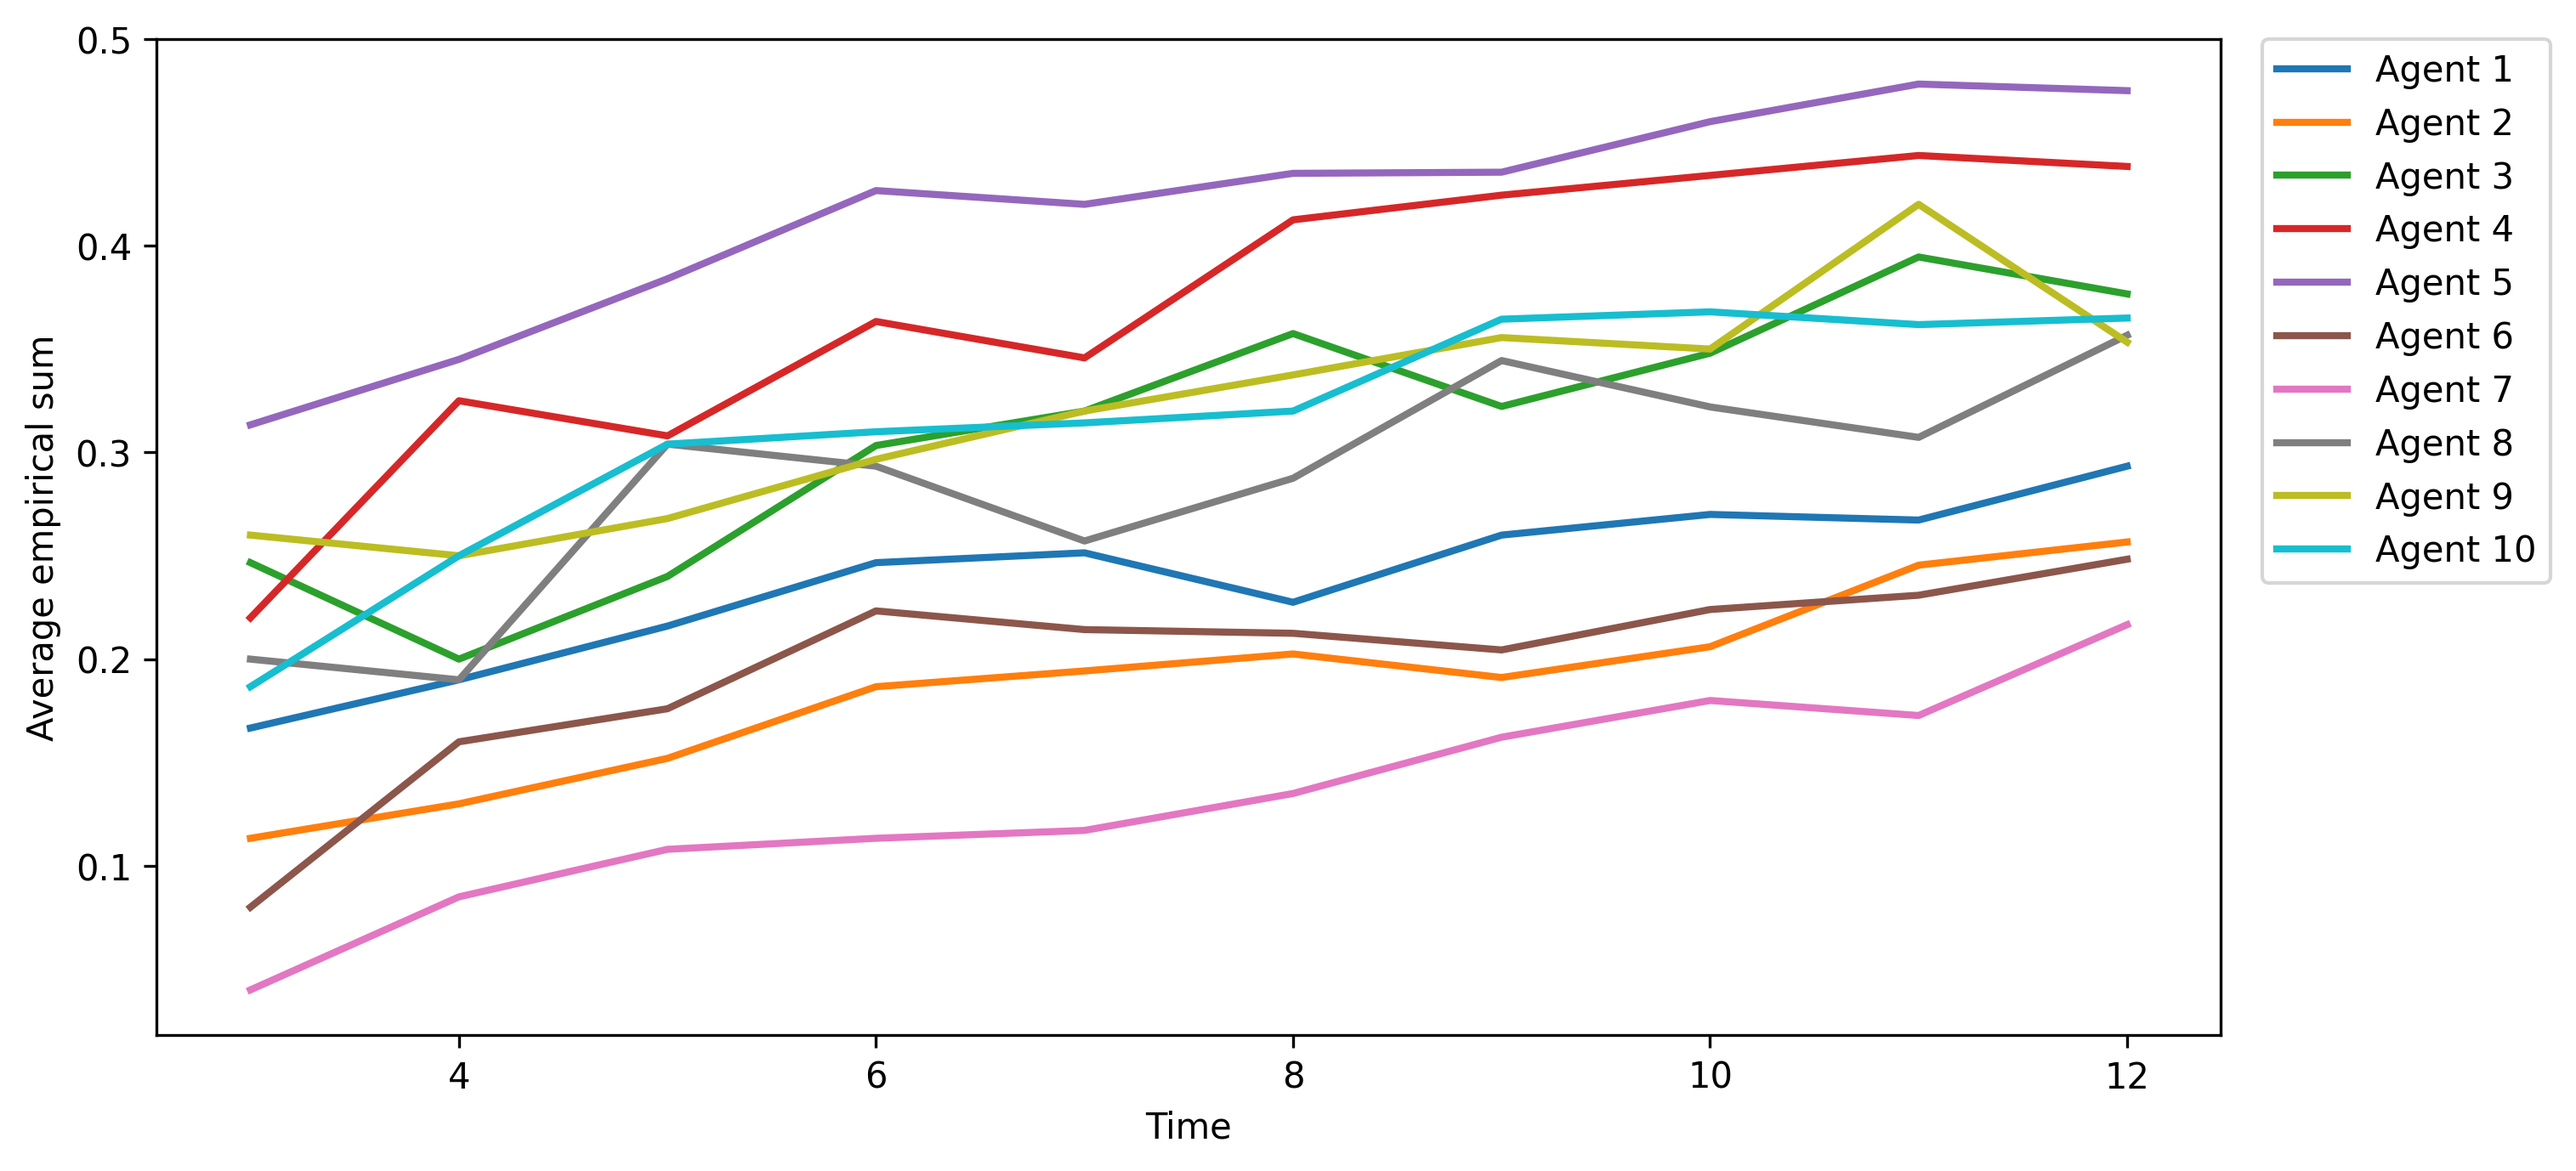
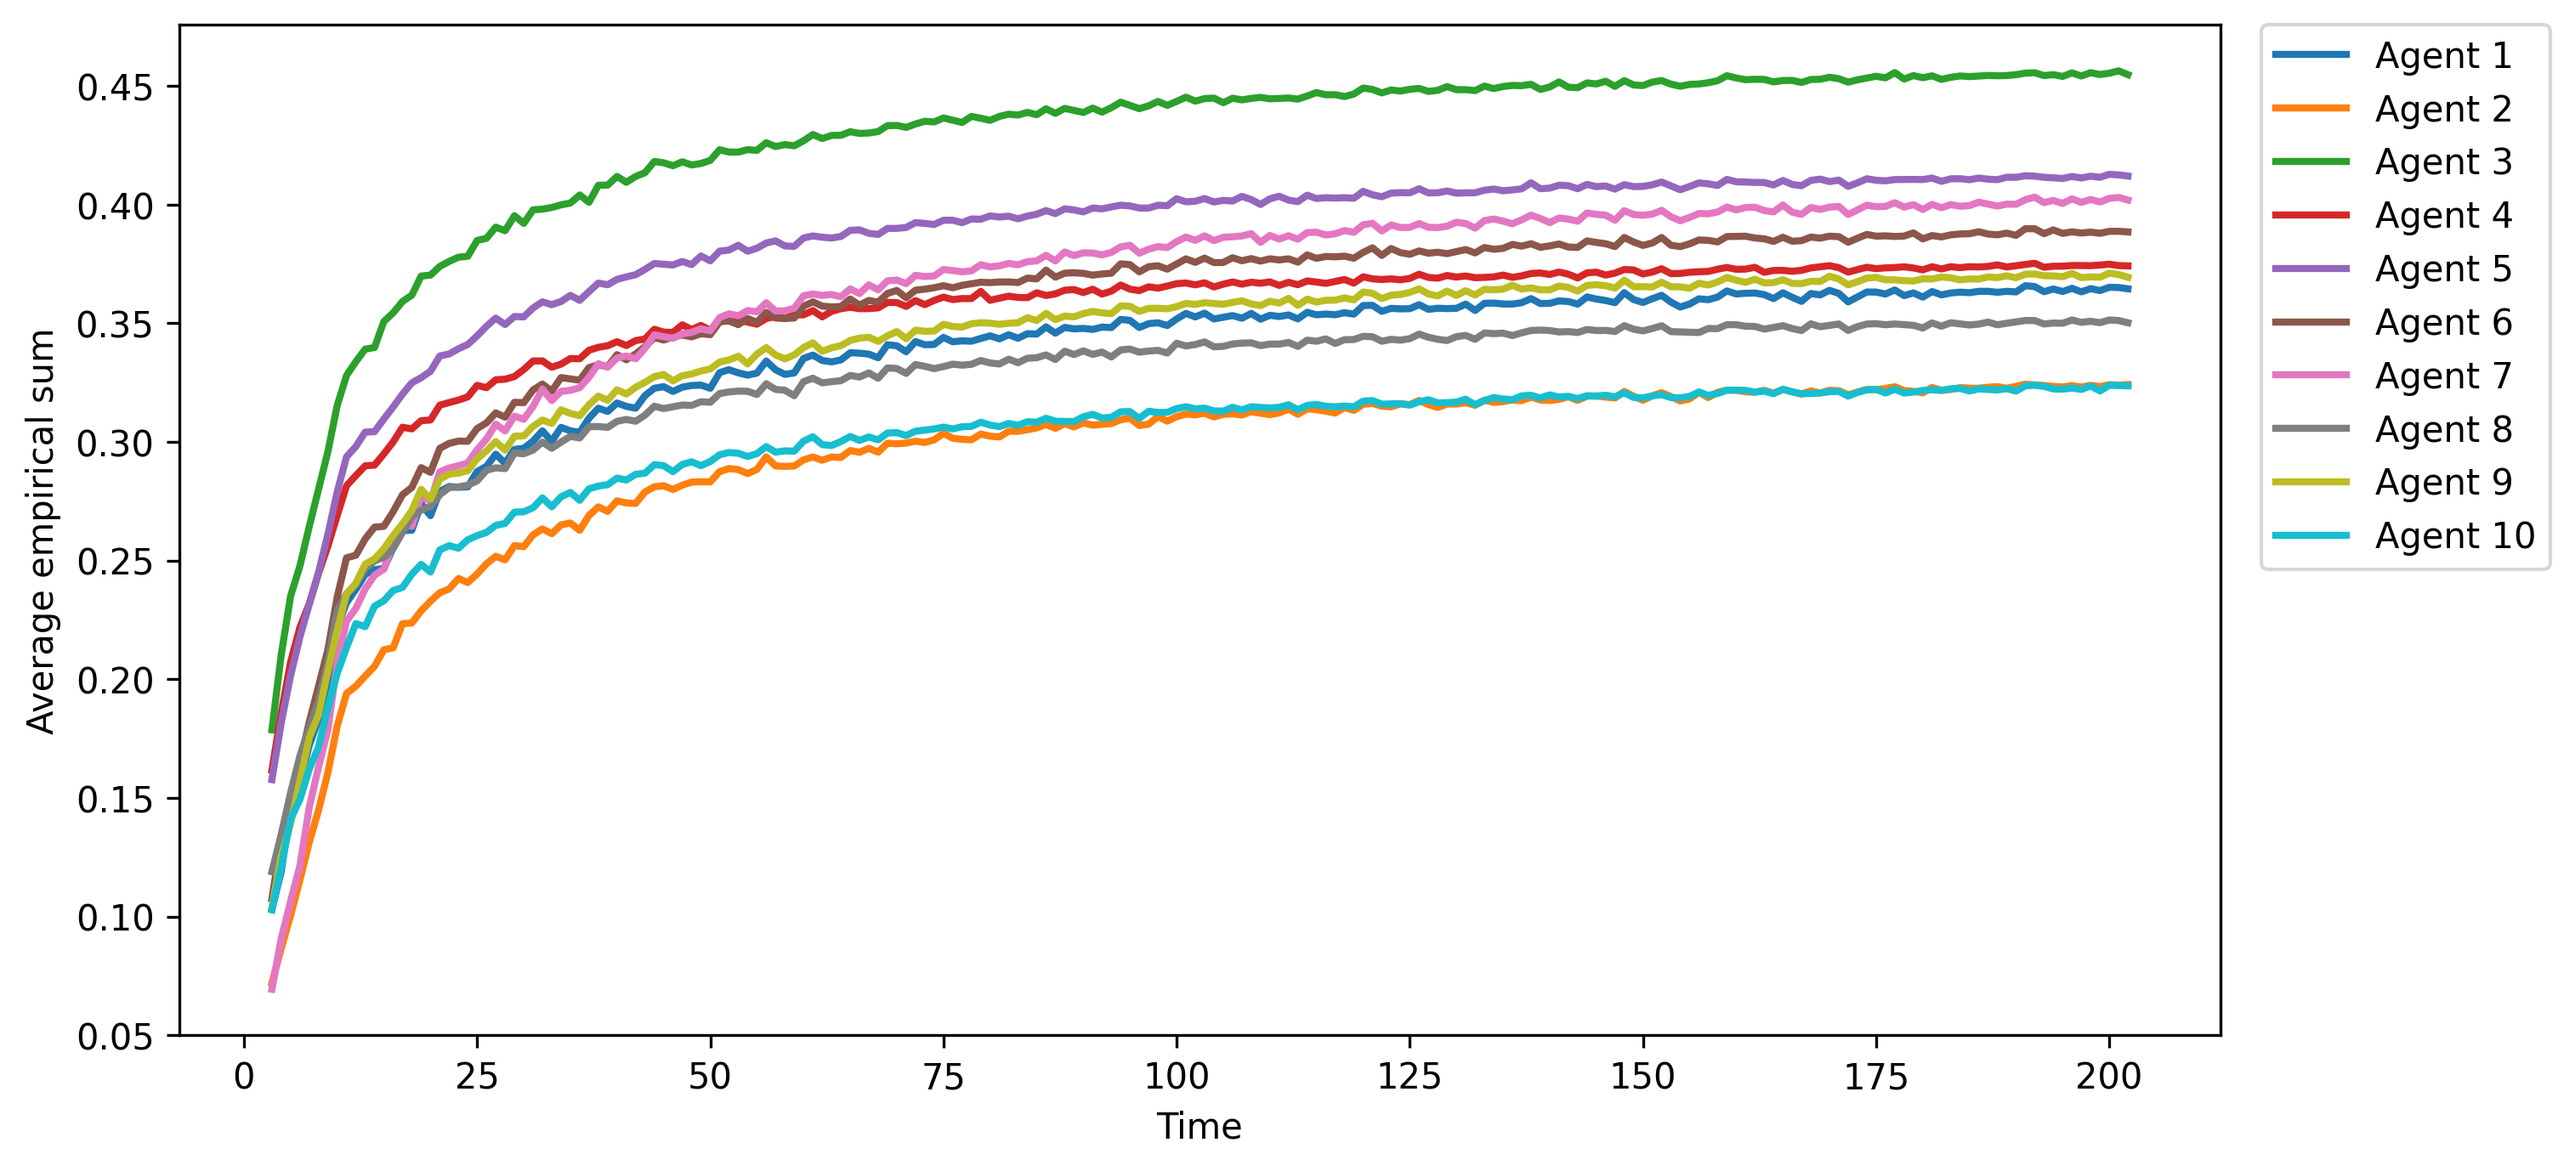
simulation for N=10,M=5

diff --git a/src/simulations/non_homo_empirical.py b/src/simulations/non_homo_empirical.py
@@ -1,4 +1,5 @@
 from src.models.od_model import *
+from src.plotting.network_plot import *
 
 # ==================================================
 # Parameters
@@ -6,9 +7,9 @@ from src.models.od_model import *
 
 N = 10
 L = 10
-M = 5
+M = 2
 T = 10
-Time = 100
+Time = 200
 
 # ==================================================
 # Generate model ingredients
@@ -21,18 +22,37 @@ G, A = generate_network(
     p=0.5,
     seed=42
 )
+np.save(
+    "data/c1_N10_M5.npy",
+    c1
+)
+
+np.save(
+    "data/c2_N10_M5.npy",
+    c2
+)
 
 memory_sets = generate_memory_sets(
     N=N,
     L=L,
     M=M
 )
+# save the weighted adjacency matrix 
+np.save(
+    "data/A_N10_M5.npy",
+    A
+)
 
 # ==================================================
-# Monte Carlo experiment
+# Draw network
+# ==================================================
+draw_network(G, save_path="figures/network_N10_M5.png")
+
+# ==================================================
+# Simulate empirical sums for all agents
 # ==================================================
 
-all_means = []
+all_means = np.zeros((Time,N))
 
 rng = np.random.default_rng(42)
 
@@ -40,7 +60,7 @@ for horizon in range(3, Time + 3):
 
     monte_carlo_vals = []
 
-    for sim in range(500):
+    for sim in range(5000):
 
         X_history, Z_history = simulate_trajectory(
             N=N,
@@ -57,24 +77,49 @@ for horizon in range(3, Time + 3):
         ergodic_vals = np.mean(Z_history, axis=0)
 
         monte_carlo_vals.append(
-            np.mean(ergodic_vals)
+            ergodic_vals
         )
 
-    all_means.append(
-        np.mean(monte_carlo_vals)
-    )
+    all_means[horizon - 3] = np.mean(
+    monte_carlo_vals,
+    axis=0
+)
+#save the empirical sum data
+np.save(
+    "data/all_means_N10_M5.npy",all_means
+)
 
 # ==================================================
-# Plot
+# Plotting
 # ==================================================
 
 time = np.arange(3, Time + 3)
 
 plt.figure(figsize=(10, 4.5))
 
-plt.plot(time, all_means)
+for node in range(N):
+
+    plt.plot(
+        time,
+        all_means[:, node],
+        linewidth=2,
+        label=f"Agent {node+1}"
+    )
+
+plt.legend(
+    bbox_to_anchor=(1.02, 1),
+    loc="upper left",
+    borderaxespad=0.
+)
+plt.tight_layout()
 
 plt.xlabel("Time")
-plt.ylabel("Empirical ergodic average")
+plt.ylabel("Average empirical sum")
+
+plt.savefig(
+    "figures/all_means_N10_M5.png",
+    dpi=300,
+    bbox_inches="tight"
+)
 
 plt.show()

diff --git a/src/simulations/run_simulation.py b/src/simulations/run_simulation.py
@@ -7,47 +7,26 @@ from src.plotting.network_plot import *
 
 N = 10
 L = 10
-M = 5
+M = 2
 T = 10
-Time = 10
+Time = 200
 
 # ==================================================
 # Generate model ingredients
 # ==================================================
 
-c1, c2 = generate_c1_c2(N, M)
-
-G, A = generate_network(
-    N=N,
-    p=0.5,
-    seed=42
-)
-np.save(
-    "data/c1_N10_M5.npy",
-    c1
-)
-
-np.save(
-    "data/c2_N10_M5.npy",
-    c2
-)
-
+c1 = np.load("data/c1_N10_M5.npy")
+c2 = np.load("data/c2_N10_M5.npy")
 memory_sets = generate_memory_sets(
     N=N,
     L=L,
     M=M
 )
-# save the weighted adjacency matrix 
-np.save(
-    "data/A_N10_M5.npy",
-    A
-)
 
 # ==================================================
 # Draw network
 # ==================================================
-draw_network(G, save_path="figures/network_N10_M5.png")
-
+A = np.load("data/A_N10_M5.npy")
 # ==================================================
 # Simulate empirical sums for all agents
 # ==================================================
@@ -60,7 +39,7 @@ for horizon in range(3, Time + 3):
 
     monte_carlo_vals = []
 
-    for sim in range(50):
+    for sim in range(5000):
 
         X_history, Z_history = simulate_trajectory(
             N=N,
@@ -86,7 +65,7 @@ for horizon in range(3, Time + 3):
 )
 #save the empirical sum data
 np.save(
-    "data/all_means_N10_M5.npy",all_means
+    "data/all_means_N10_M2.npy",all_means
 )
 
 # ==================================================
@@ -117,7 +96,7 @@ plt.xlabel("Time")
 plt.ylabel("Average empirical sum")
 
 plt.savefig(
-    "figures/all_means_N10_M5.png",
+    "figures/all_means_N10_M2.png",
     dpi=300,
     bbox_inches="tight"
 )
